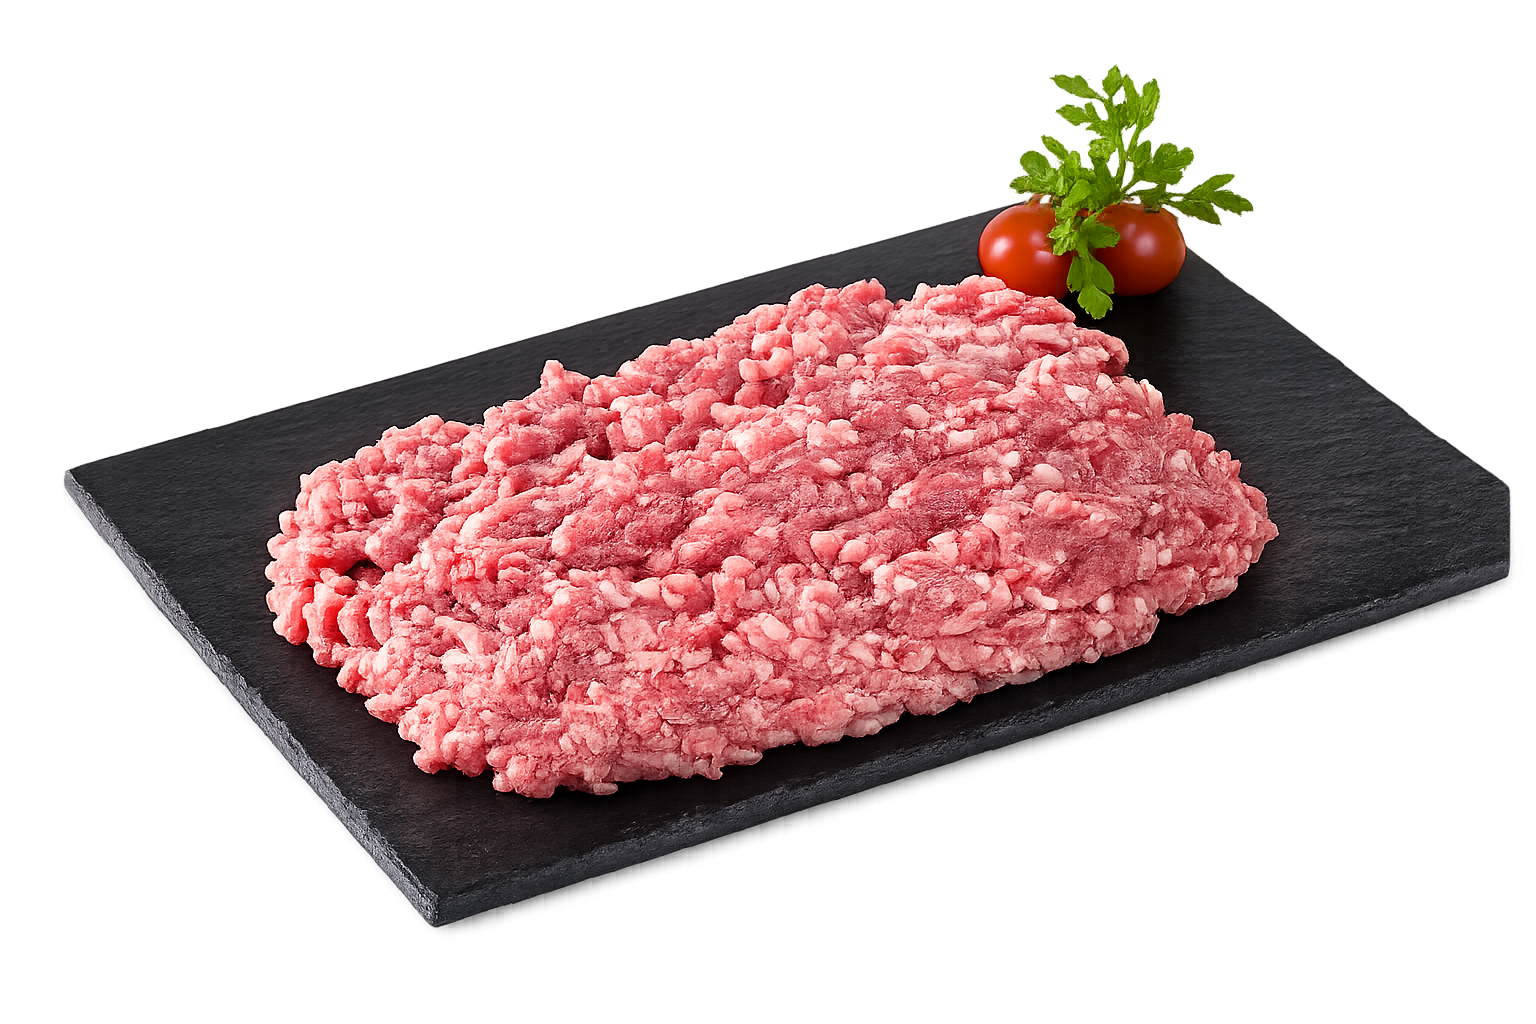
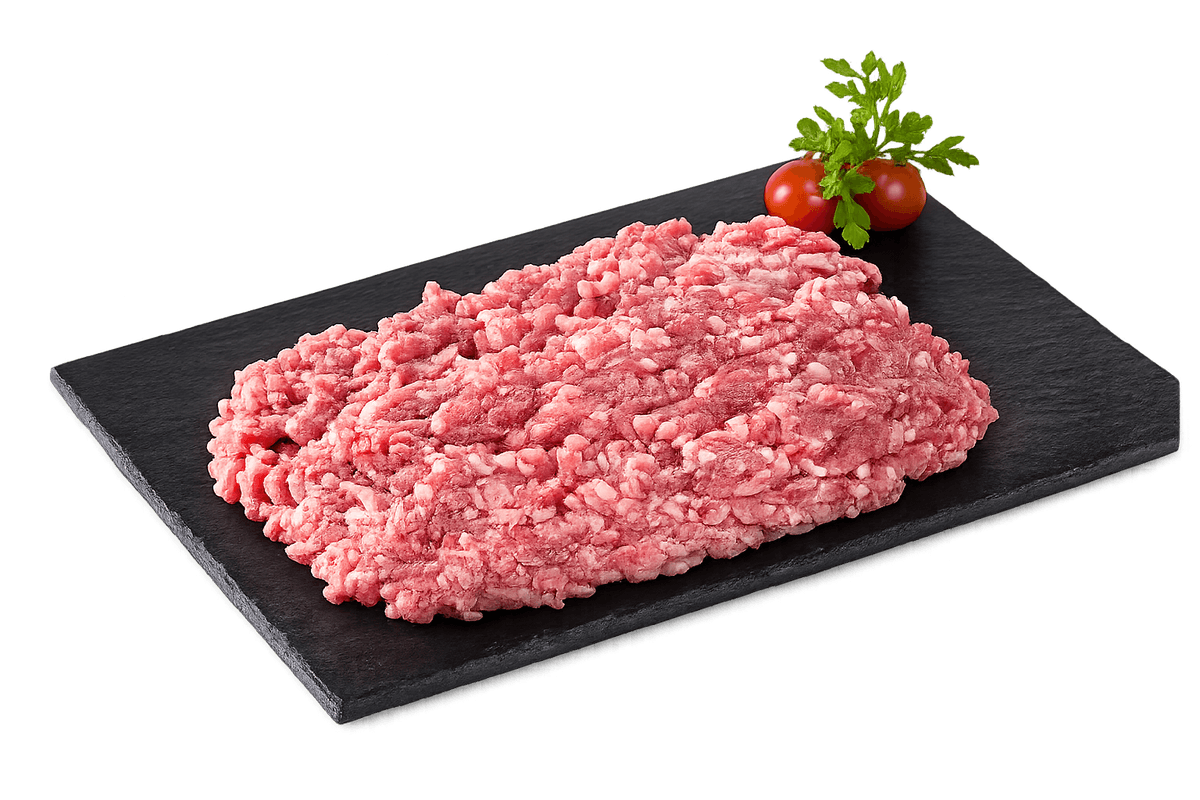
feat: update Node version in workflow, optimize image handling, and refine documentation

diff --git a/CHANGELOG.md b/CHANGELOG.md
@@ -5,6 +5,45 @@ Versionado semántico cuando se publique a producción.
 
 ## [Unreleased]
 
+### Sesión 20 — 2026-09-19 (el workflow de imágenes corría y fallaba: `node --test` + glob en Node 20)
+
+**Context**: desde sesión 18 se asumía que el workflow de Actions "nunca
+corrió" y se sospechaba del permiso `Read and write`. Ambas cosas eran falsas.
+El permiso ya estaba seteado, y la API pública de GitHub mostró **3 corridas,
+las 3 en `failure`** (25/08, 31/08, 14/09), siempre en el paso "Tests del
+pipeline de imágenes". Por eso `cortes-de-cerdo.png` y `picada-cerdo.png`
+entraron pesadas a `master` y nunca hubo commit del bot.
+
+**Causa raíz**: `"test": "node --test \"scripts/**/*.test.mjs\""`. En Node 20
+(el del workflow) `node --test` **no expande globs**: reproducido en local con
+`npx -p node@20`, falla con `Could not find '.../scripts/**/*.test.mjs'`. En
+local pasaba porque la máquina de desarrollo corre Node 25. Además Node 25
+tampoco acepta un directorio como argumento (`Cannot find module '.../scripts'`),
+así que `node --test scripts/` no servía como forma portable.
+
+**Fixed**
+- **`package.json`**: `"test": "node --test"` sin argumentos. Descubre
+  `*.test.mjs` por convención. Verificado 6/6 en Node 20 y Node 25.
+- **`.github/workflows/optimize-images.yml`**: `node-version: 20` → `22`. Node
+  20 llegó a EOL en abril de 2026.
+
+**Changed**
+- **`public/ofertas/picada-cerdo.png`**: 2948 KB → 283 KB, comprimida en local
+  con `npm run optimize:images` (el workflow no lo hizo por lo de arriba).
+- **`README.md`** y **`.env.local.example`**: sacadas `GOOGLE_SHEET_ID` y
+  `GOOGLE_SHEETS_API_KEY` — ningún código las usa, el proyecto solo lee
+  `GOOGLE_SHEETS_CSV_URL` + los dos GIDs. En el example también se quitó
+  `minutosActualizacion` (sin efecto desde sesión 10) y se agregó `atenuar
+  desde/hasta`.
+- **`.gitignore`**: `!.env.local.example`. El patrón `.env*` lo tapaba, así que
+  el archivo **nunca estuvo en el repo** aunque el README lo linkea. `.env.local`
+  (el real) sigue ignorado — verificado con `git check-ignore`.
+
+**Validation**
+- `npm test`: 6/6 en Node 25 (local) y en Node 20 (`npx -p node@20`).
+- **Pendiente**: la próxima corrida del workflow en GitHub. Con las imágenes ya
+  comprimidas, el resultado esperado es verde sin commit.
+
 ### Sesión 19 — 2026-08-30 (precios frescos en cada reload: fin del ISR)
 
 **Context**: el cliente preguntó si al corregir un precio en el Sheets y apretar

diff --git a/docs/progreso.md b/docs/progreso.md
@@ -1,6 +1,6 @@
 # Progreso del proyecto — micro-landing-el-ancla
 
-Actualizado al 30/08/2026 (sesión 19).
+Actualizado al 19/09/2026 (sesión 20).
 
 ---
 
@@ -131,6 +131,21 @@ public/
 ---
 
 ## Completado ✅
+
+- **Sesión 20 (19/09/2026) — El workflow de imágenes corría y fallaba**:
+  - La sospecha de sesiones 18-19 (permiso `Read and write` sin setear) era
+    falsa. La API pública de GitHub mostró 3 corridas en `failure`, todas en
+    el paso de tests. **Causa**: `node --test "scripts/**/*.test.mjs"` — Node
+    20 no expande globs. Reproducido con `npx -p node@20`. En local pasaba
+    por correr Node 25.
+  - **Fix**: `"test": "node --test"` sin argumentos (6/6 en Node 20 y 25) y
+    `node-version: 22` en el workflow (20 está EOL).
+  - `picada-cerdo.png` 2948 KB → 283 KB en local.
+  - README y `.env.local.example`: sacadas `GOOGLE_SHEET_ID` y
+    `GOOGLE_SHEETS_API_KEY` (código no las usa).
+  - **`.env.local.example` nunca estuvo en el repo**: `.env*` del `.gitignore`
+    lo tapaba. Agregado `!.env.local.example`; `.env.local` sigue ignorado.
+  - Validación: `npm test` 6/6 en ambas versiones de Node.
 
 - **Sesión 19 (30/08/2026) — Precios frescos en cada reload (fin del ISR)**:
   - **Pregunta del cliente**: si corrige un precio en el Sheets y aprieta
@@ -734,11 +749,11 @@ listo para vender en su estado actual.
 
 ### Abierto
 
-- **Verificar el workflow de imágenes end-to-end** (sesión 18). **Confirmado
-  que no corrió**: `cortes-de-cerdo.png` se commiteó a `master` el 25/08 con
-  3,35 MB y seguía así hasta que el `prebuild` de la sesión 19 la comprimió
-  en local (→ 425 KB). No hay ningún commit de `github-actions[bot]` en la
-  historia. Pasos: mirar la pestaña Actions del repo; si el job falló con
+- **Confirmar la primera corrida verde del workflow de imágenes.** Sesión 20
+  encontró y arregló la causa de que fallara siempre (`node --test` + glob en
+  Node 20). Falta ver la próxima corrida en la pestaña Actions: esperado
+  verde sin commit (las imágenes ya están comprimidas). Prueba completa:
+  commitear un PNG pesado y ver el commit del bot. Pasos: mirar la pestaña Actions del repo; si el job falló con
   `403`, setear Settings → Actions → General → Workflow permissions →
   `Read and write permissions` y volver a dispararlo con
   `workflow_dispatch`.

diff --git a/docs/decisiones.md b/docs/decisiones.md
@@ -214,14 +214,20 @@ contra el loop de commits (ver abajo).
 **Settings → Actions → General → Workflow permissions → `Read and write
 permissions`**. Sin eso, el `git push` del job falla con `403`.
 
-### Estado: sin verificar end-to-end
+### Estado: fallaba en cada corrida (resuelto el 2026-09-19)
 
 `cortes-de-cerdo.png` (3,35 MB, sin comprimir) se commiteó a `master` el
-2026-08-25 y **no hay commit de `github-actions[bot]` detrás**. O el workflow
-nunca corrió, o falló — la causa más probable es el permiso de escritura de
-arriba sin setear. Pendiente: revisar la pestaña Actions del repo y, si hace
-falta, disparar el workflow a mano (`workflow_dispatch`) para cerrar el paso 4 de
-verificación del diseño.
+2026-08-25 y no hubo commit de `github-actions[bot]` detrás. La sospecha inicial
+(permiso de escritura sin setear) **era falsa**: el permiso estaba bien. La API
+de GitHub mostró 3 corridas, las 3 en `failure` en el paso de tests.
+
+Causa: `node --test "scripts/**/*.test.mjs"` — Node 20 (el del workflow) no
+expande globs en `node --test`; en local pasaba porque la máquina corre Node 25.
+Fix en sesión 20: `"test": "node --test"` sin argumentos (descubrimiento por
+convención, funciona en 20/22/25) y `node-version: 22` (20 está EOL desde abril
+2026). Lección: **el CI corre en otra versión de Node que la máquina de
+desarrollo; cuando un workflow "no hace nada", mirar la pestaña Actions antes de
+teorizar.**
 
 Diseño completo:
 `docs/superpowers/specs/2026-08-09-optimizacion-imagenes-programada-design.md`.

diff --git a/docs/superpowers/specs/2026-08-09-optimizacion-imagenes-programada-design.md b/docs/superpowers/specs/2026-08-09-optimizacion-imagenes-programada-design.md
@@ -139,6 +139,10 @@ temporal con imágenes generadas al vuelo — **nunca toca `public/`**.
 Nuevo script en `package.json`:
 `"test": "node --test \"scripts/**/*.test.mjs\""`.
 
+> **Corrección 2026-09-19**: ese glob no funciona en Node 20 (el del workflow)
+> y hizo fallar las 3 primeras corridas. Quedó `"test": "node --test"` sin
+> argumentos. Ver `CHANGELOG.md` sesión 20.
+
 ### Bug encontrado por el test de idempotencia
 
 El test falló en la primera corrida y destapó un problema real:

diff --git a/README.md b/README.md
@@ -123,8 +123,6 @@ Variables de entorno (ver [`.env.local.example`](.env.local.example)):
 
 | Variable | Para qué |
 |---|---|
-| `GOOGLE_SHEET_ID` | ID de la planilla |
-| `GOOGLE_SHEETS_API_KEY` | API key de Google Sheets |
 | `GOOGLE_SHEETS_CSV_URL` | CSV público de la pestaña de productos |
 | `GOOGLE_SHEETS_GID_OFERTAS` | GID de la pestaña de ofertas |
 | `GOOGLE_SHEETS_GID_CONFIG` | GID de la pestaña de configuración |
